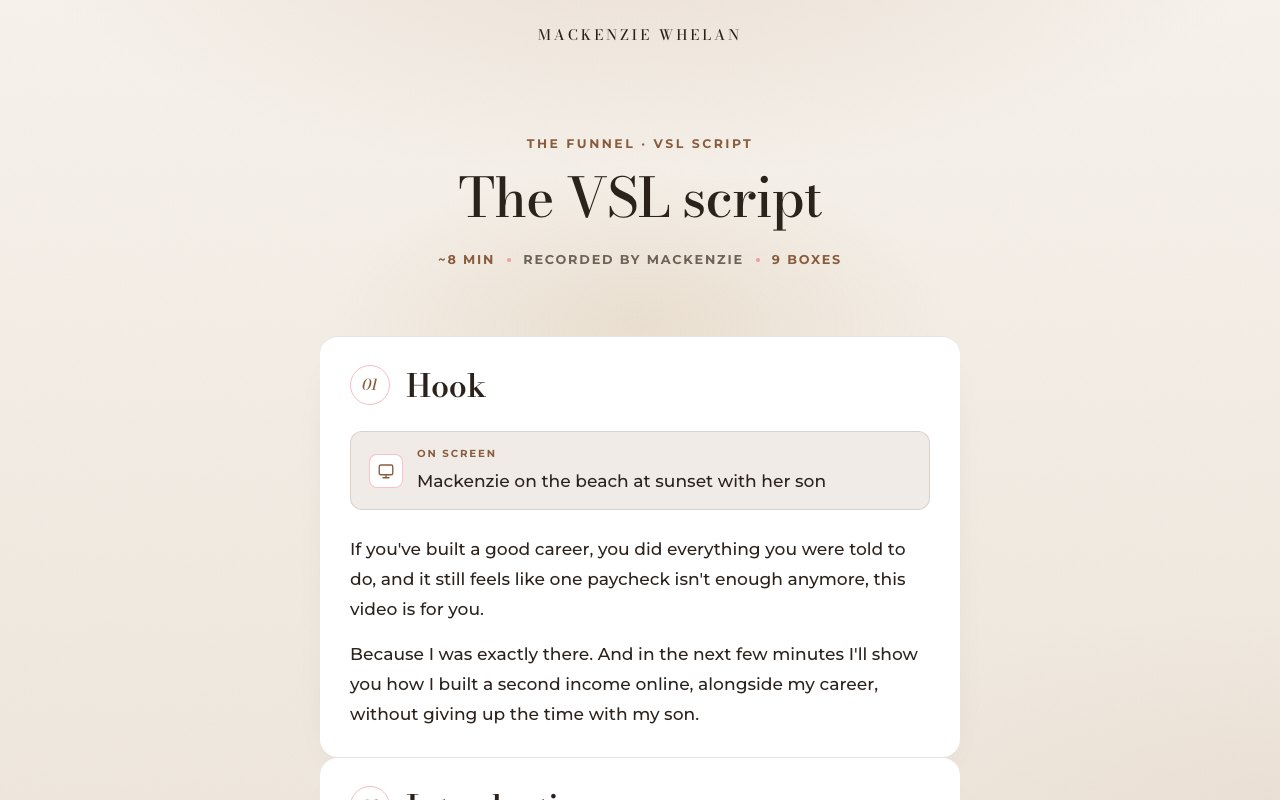
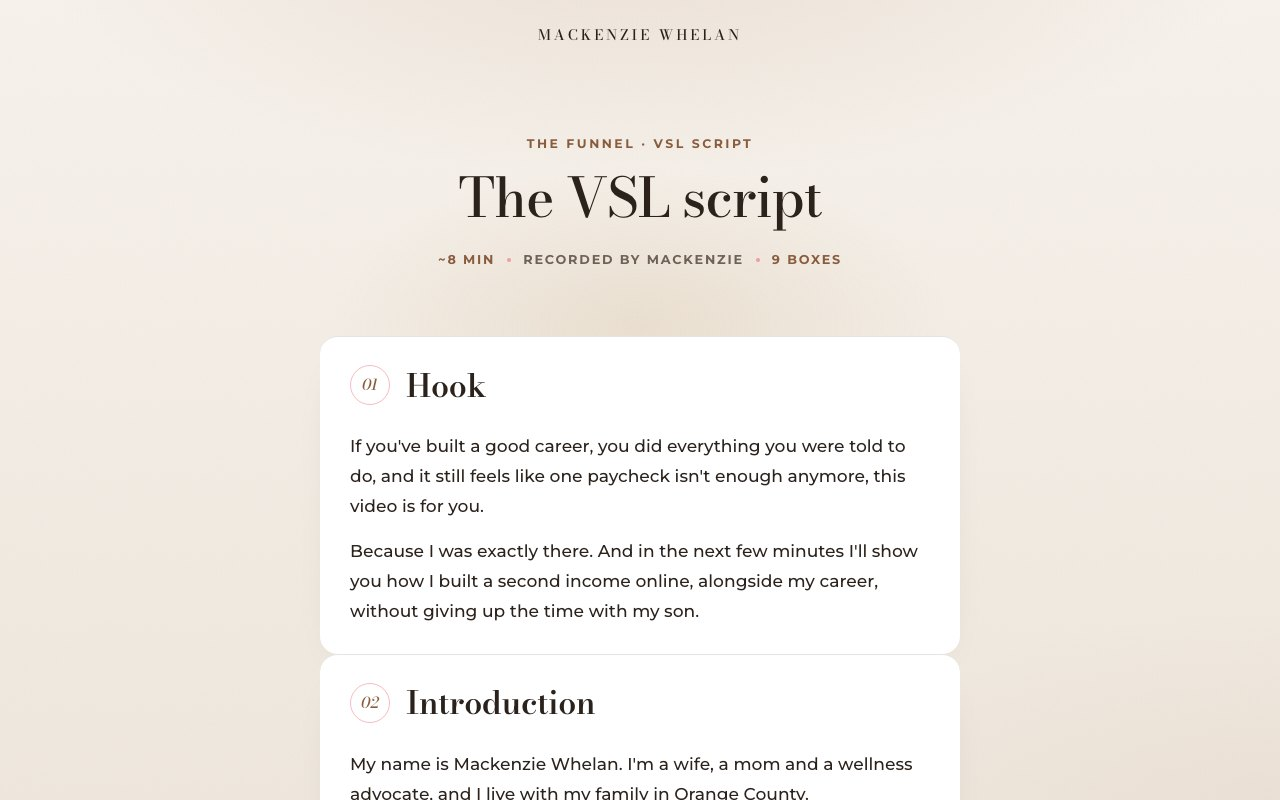
VSL script: remove scene directions

Changed region(s): [[0.2812, 0.5312, 0.7188, 0.7812], [0.25, 0.8125, 0.75, 0.9062], [0.25, 0.9375, 0.75, 1.0]]

diff --git a/vsl-script/index.html b/vsl-script/index.html
@@ -27,11 +27,11 @@
         </header>
         <section class="sec reveal">
           <div class="sec__head"><span class="sec__num">01</span><h2 class="sec__title">Hook</h2></div>
-          <div class="sec__body"><div class="cue"><span class="cue__icon"><svg viewBox="0 0 24 24"><rect x="3" y="4" width="18" height="13" rx="2"/><path d="M8 21h8M12 17v4"/></svg></span><div><span class="cue__label">On screen</span><p class="cue__text">Mackenzie on the beach at sunset with her son</p></div></div><p>If you've built a good career, you did everything you were told to do, and it still feels like one paycheck isn't enough anymore, this video is for you.</p><p>Because I was exactly there. And in the next few minutes I'll show you how I built a second income online, alongside my career, without giving up the time with my son.</p></div>
+          <div class="sec__body"><p>If you've built a good career, you did everything you were told to do, and it still feels like one paycheck isn't enough anymore, this video is for you.</p><p>Because I was exactly there. And in the next few minutes I'll show you how I built a second income online, alongside my career, without giving up the time with my son.</p></div>
         </section>
         <section class="sec reveal">
           <div class="sec__head"><span class="sec__num">02</span><h2 class="sec__title">Introduction</h2></div>
-          <div class="sec__body"><div class="cue"><span class="cue__icon"><svg viewBox="0 0 24 24"><rect x="3" y="4" width="18" height="13" rx="2"/><path d="M8 21h8M12 17v4"/></svg></span><div><span class="cue__label">On screen</span><p class="cue__text">Mackenzie at home, talking to camera</p></div></div><p>My name is Mackenzie Whelan. I'm a wife, a mom and a wellness advocate, and I live with my family in Orange County.</p><p>But first, let me make sure this is actually for you. Because if it's not, I'd rather you know now.</p></div>
+          <div class="sec__body"><p>My name is Mackenzie Whelan. I'm a wife, a mom and a wellness advocate, and I live with my family in Orange County.</p><p>But first, let me make sure this is actually for you. Because if it's not, I'd rather you know now.</p></div>
         </section>
         <section class="sec reveal">
           <div class="sec__head"><span class="sec__num">03</span><h2 class="sec__title">Is this you</h2></div>
@@ -39,7 +39,7 @@
         </section>
         <section class="sec reveal">
           <div class="sec__head"><span class="sec__num">04</span><h2 class="sec__title">My story</h2></div>
-          <div class="sec__body"><div class="cue"><span class="cue__icon"><svg viewBox="0 0 24 24"><rect x="3" y="4" width="18" height="13" rx="2"/><path d="M8 21h8M12 17v4"/></svg></span><div><span class="cue__label">On screen</span><p class="cue__text">Photos: Mackenzie's career years, her son as a baby</p></div></div><p>For over a decade I built my life around my career, and I loved every minute of it. It was a huge part of who I was, and it still is.</p><p>Then I had my son. And around that same time, my husband's health took a turn.</p><p>Overnight I was navigating motherhood, caretaking and providing for our family, and it stretched me in every way.</p><p>That season made me rethink a lot. How we were living. What we were prioritising. And how we were taking care of our health.</p></div>
+          <div class="sec__body"><p>For over a decade I built my life around my career, and I loved every minute of it. It was a huge part of who I was, and it still is.</p><p>Then I had my son. And around that same time, my husband's health took a turn.</p><p>Overnight I was navigating motherhood, caretaking and providing for our family, and it stretched me in every way.</p><p>That season made me rethink a lot. How we were living. What we were prioritising. And how we were taking care of our health.</p></div>
         </section>
         <section class="sec reveal">
           <div class="sec__head"><span class="sec__num">05</span><h2 class="sec__title">The turning point</h2></div>
@@ -51,11 +51,11 @@
         </section>
         <section class="sec reveal">
           <div class="sec__head"><span class="sec__num">07</span><h2 class="sec__title">How it works</h2></div>
-          <div class="sec__body"><div class="cue"><span class="cue__icon"><svg viewBox="0 0 24 24"><rect x="3" y="4" width="18" height="13" rx="2"/><path d="M8 21h8M12 17v4"/></svg></span><div><span class="cue__label">On screen</span><p class="cue__text">Simple graphic: 1 · product, 2 · systems, 3 · mentorship</p></div></div><p><b>One.</b> A high-ticket wellness product, something I use in my own home for my own family's health.</p><p><b>Two.</b> Step-by-step systems, so you're never guessing what to do next.</p><p><b>Three.</b> Mentorship and automation that are already in place, so you're not building it alone and you're not building it from scratch.</p><p>That's how I built it around my career, and around the time I actually have.</p></div>
+          <div class="sec__body"><p><b>One.</b> A high-ticket wellness product, something I use in my own home for my own family's health.</p><p><b>Two.</b> Step-by-step systems, so you're never guessing what to do next.</p><p><b>Three.</b> Mentorship and automation that are already in place, so you're not building it alone and you're not building it from scratch.</p><p>That's how I built it around my career, and around the time I actually have.</p></div>
         </section>
         <section class="sec reveal">
           <div class="sec__head"><span class="sec__num">08</span><h2 class="sec__title">The team</h2></div>
-          <div class="sec__body"><div class="cue"><span class="cue__icon"><svg viewBox="0 0 24 24"><rect x="3" y="4" width="18" height="13" rx="2"/><path d="M8 21h8M12 17v4"/></svg></span><div><span class="cue__label">On screen</span><p class="cue__text">Team retreat footage</p></div></div><p>And you won't be doing it alone. Put a group of ambitious women together, give them permission to have fun, and see what happens to their business.</p><p>[CONFIRM: add 2 or 3 real team wins from the Team wins highlight, with their permission]</p></div>
+          <div class="sec__body"><p>And you won't be doing it alone. Put a group of ambitious women together, give them permission to have fun, and see what happens to their business.</p><p>[CONFIRM: add 2 or 3 real team wins from the Team wins highlight, with their permission]</p></div>
         </section>
         <section class="sec reveal">
           <div class="sec__head"><span class="sec__num">09</span><h2 class="sec__title">Call to action</h2></div>

diff --git a/index.html b/index.html
@@ -224,8 +224,8 @@
             <span class="group__rule"></span>
           </div>
           <div class="grid grid--1">
-            <button class="pcard pcard--wide reveal" data-title="VSL script" data-embed="vsl-script/?v=1792783659">
-              <span class="thumb thumb--wide"><span class="thumb__bar"><i></i><i></i><i></i><span class="thumb__url">script · 9 boxes</span></span><img class="thumb__img" src="assets/img/vslscript-preview.jpg?v=1792783659" alt="VSL script preview" loading="lazy" /></span>
+            <button class="pcard pcard--wide reveal" data-title="VSL script" data-embed="vsl-script/?v=1792784334">
+              <span class="thumb thumb--wide"><span class="thumb__bar"><i></i><i></i><i></i><span class="thumb__url">script · 9 boxes</span></span><img class="thumb__img" src="assets/img/vslscript-preview.jpg?v=1792784334" alt="VSL script preview" loading="lazy" /></span>
               <span class="pcard__body"><span><span class="pcard__kicker">~8 min · 9 boxes</span><span class="pcard__title">VSL script</span><span class="pcard__desc">Nine boxes, from the hook to the call, in your own words and your real story.</span></span><span class="pcard__link">Open preview <span class="arrow" aria-hidden="true"></span></span></span>
             </button>
           </div>
